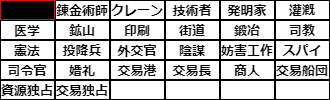
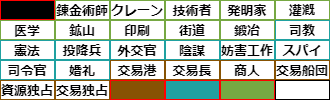
Display color of card back for other players.

Changed region(s): [[0.0, 0.0, 1.0, 1.0]]

diff --git a/kcataso/view/Game.js b/kcataso/view/Game.js
@@ -1765,7 +1765,7 @@ Game.addPlayer = function (game, color) {
             if (game.state === State.READY || game.playerList[color].uid === uid) {
                 this.addSprite('view/card.png', game.playerList[color].progressCard[card], card * 45 + 500, color * 78 + 79, 55, 20);
             } else {
-                this.addSprite('view/card.png', Card.BACK, card * 45 + 500, color * 78 + 79, 55, 20);
+                this.addSprite('view/card.png', Game.getColorByCard(game.playerList[color].progressCard[card]), card * 45 + 500, color * 78 + 79, 55, 20);
             }
     }
 
@@ -1787,6 +1787,17 @@ Game.addPlayer = function (game, color) {
     if (color === game.longestRoad) {
         this.addSprite('view/prize.png', 0, 777, color * 78 + 79, 20, 20);
     }
+}
+
+Game.getColorByCard = function (card) {
+    if(card >= Card.ALCHEMIST && card <= Card.SMITH) {
+        return Card.BACK_SCIENCE;
+    } else if (card >= Card.BISHOP && card <= Card.WEDDING) {
+        return Card.BACK_POLITICS;
+    } else if (card >= Card.COMMERCIAL_HARBOR && card <= Card.TRADE_MONOPOLY) {
+        return Card.BACK_TRADE;
+    }
+    return Card.BACK;
 }
 
 Game.addCanKnightDiplace = function (game) {

diff --git a/kcataso/view/Const.js b/kcataso/view/Const.js
@@ -148,6 +148,11 @@ Card.MERCHANT_FLEET = 23;
 Card.RESOURCE_MONOPOLY = 24;
 Card.TRADE_MONOPOLY = 25;
 
+// Back
+Card.BACK_TRADE = 26;
+Card.BACK_POLITICS = 27;
+Card.BACK_SCIENCE = 28;
+
 
 
 Harbor = function () { }
